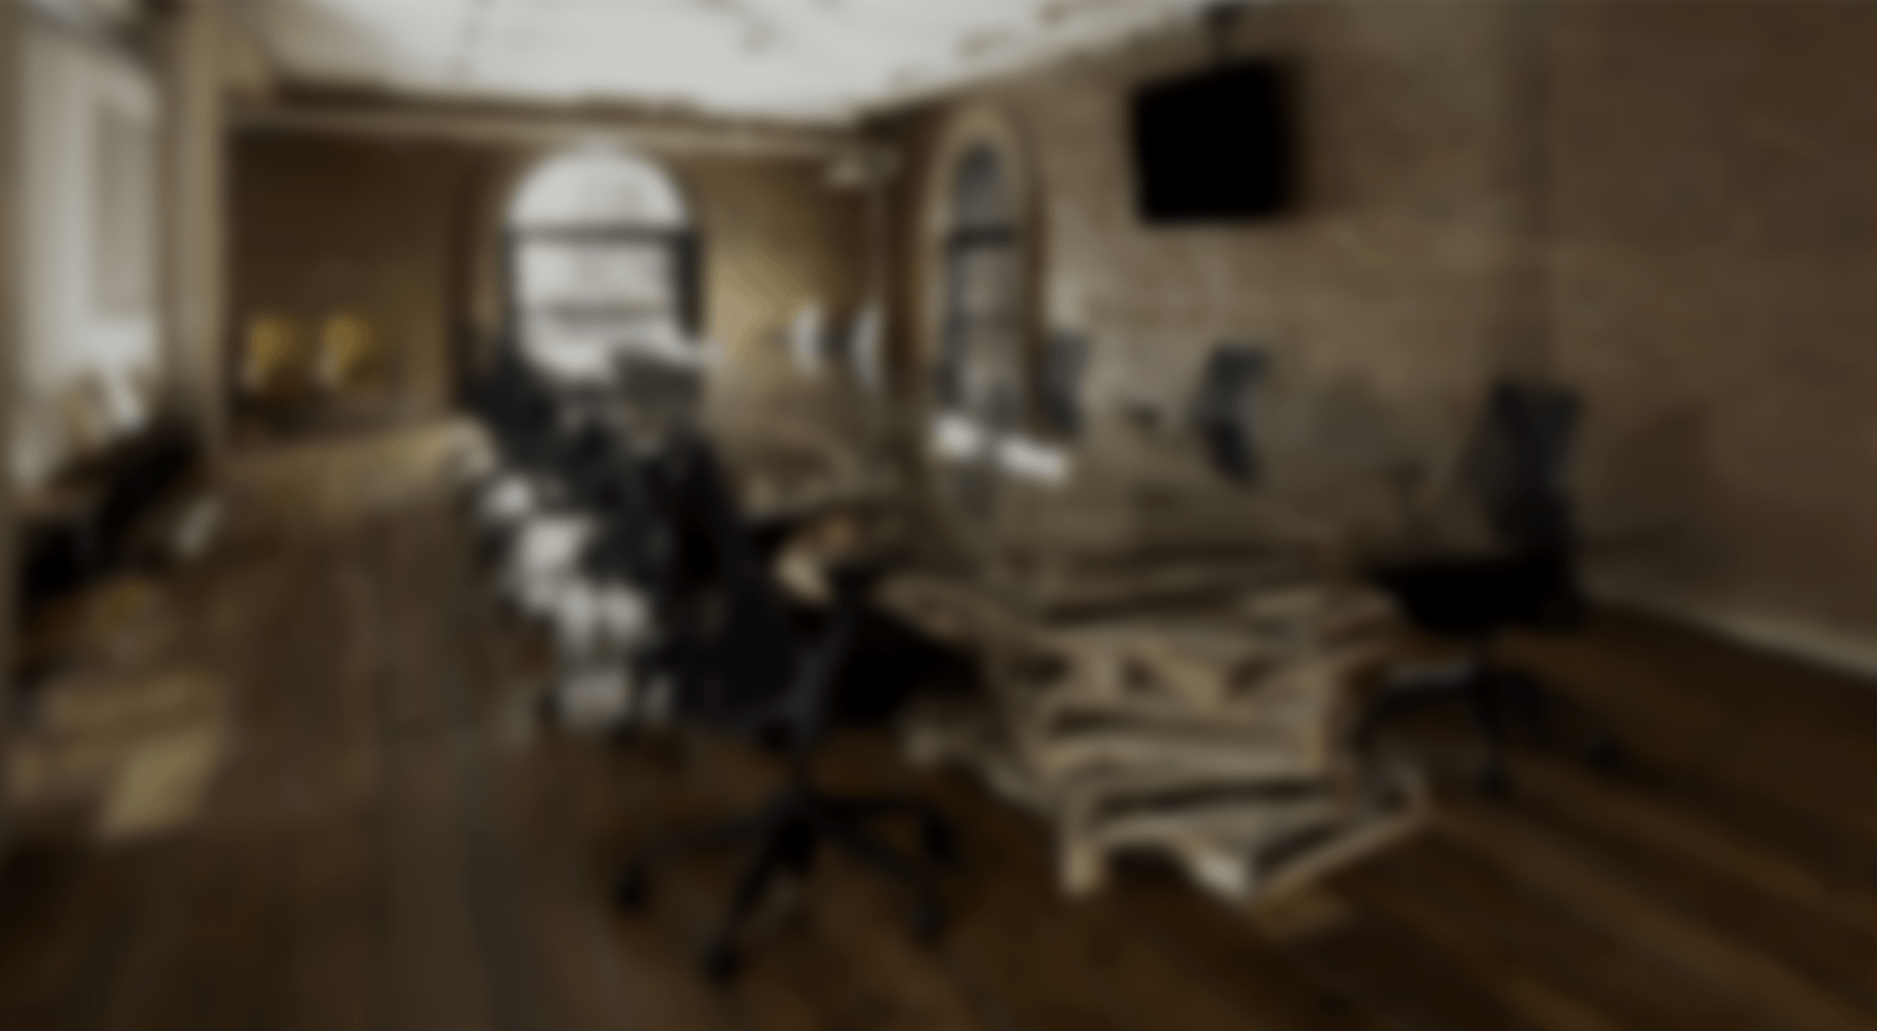
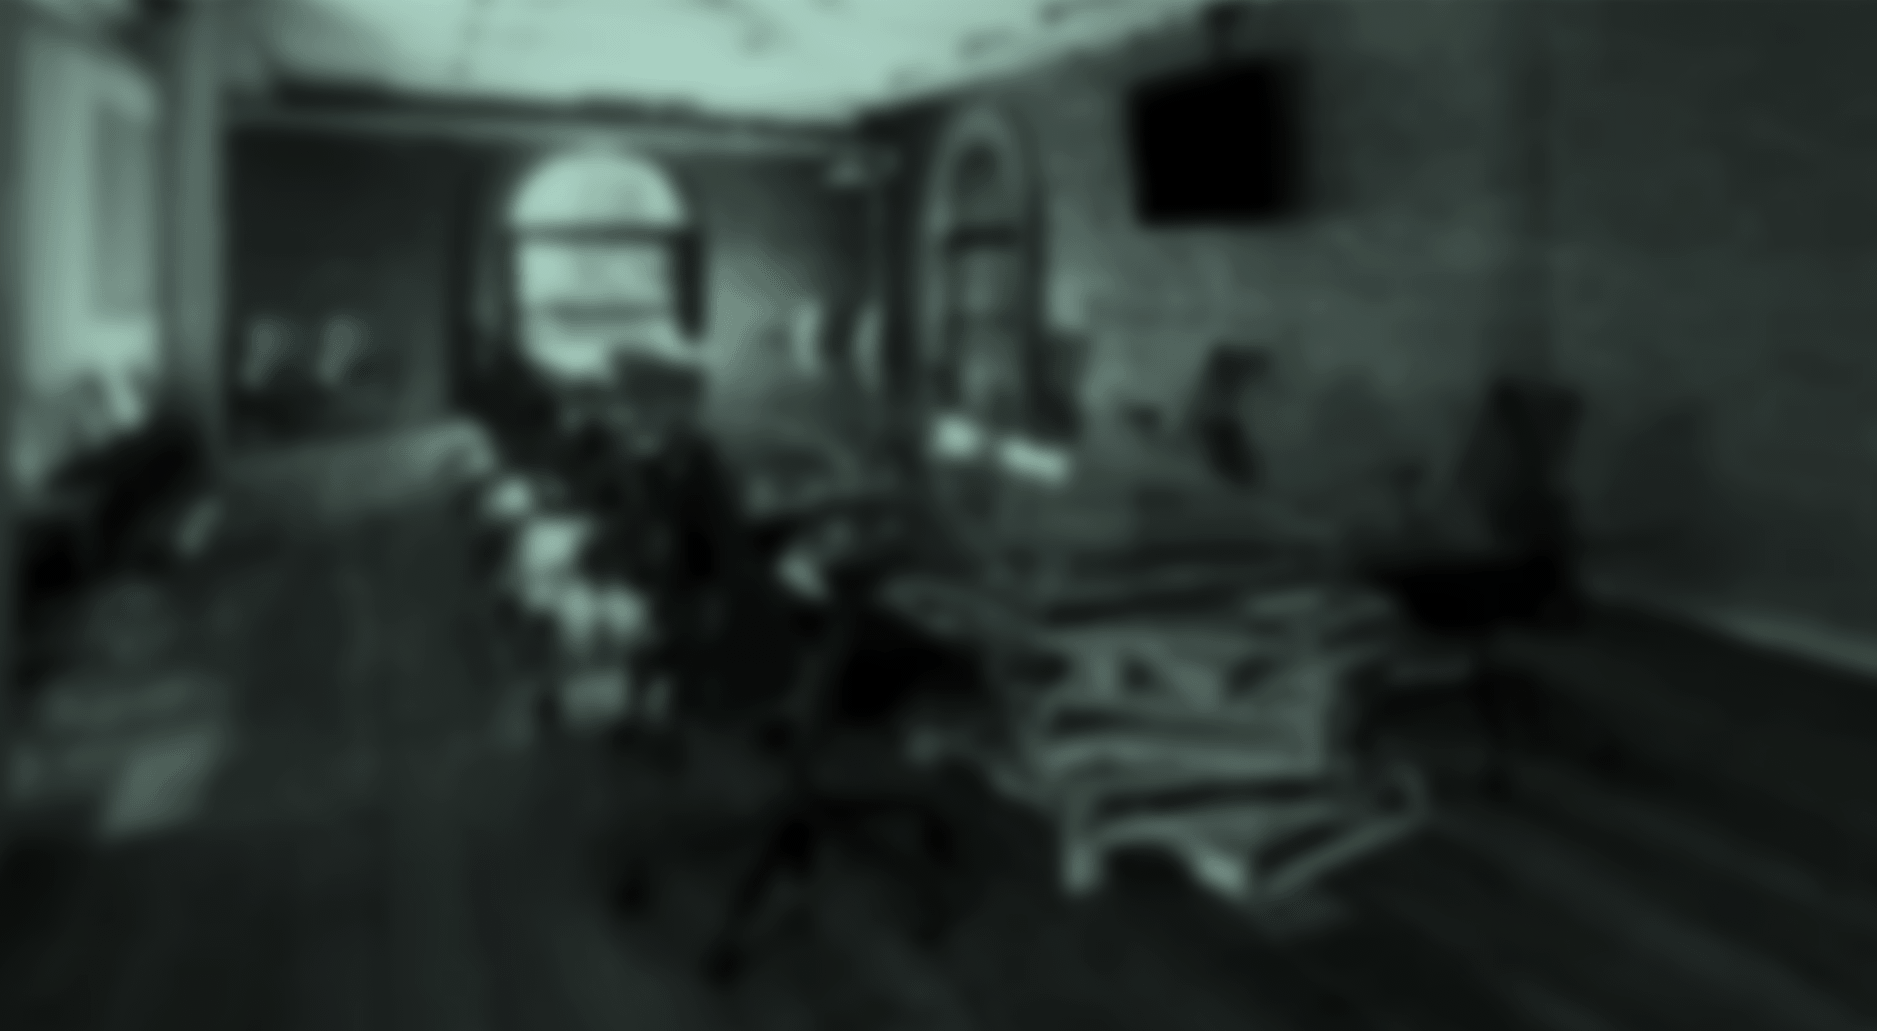
New startup image

diff --git a/resources/home.css b/resources/home.css
@@ -85,6 +85,7 @@ a {
     .top {
         background-color: #363636;
         background-position: center center;
+        background-image: url("http://cdn2.hubspot.net/hub/330553/file-373891769-png/resources/startup.png?t=1389386515000");
         background-size: cover;
         position: absolute;
         top: 0;
@@ -94,7 +95,15 @@ a {
         padding: 4rem;
     }
 
+
         /*
+        @media (max-width: 768px), (max-height: 768px) {
+            .top {
+                background-image: url("http://cdn2.hubspot.net/hub/330553/file-373900434-png/resources/startup-small.png");
+            }
+        }
+        */
+
         .top:after {
             content: "";
             position: absolute;
@@ -104,7 +113,6 @@ a {
             bottom: 0;
             background: linear-gradient(rgba(0, 0, 0, .1), rgba(0, 0, 0, .6));
         }
-        */
 
         .top h2 {
             color: #EBEBEB;
